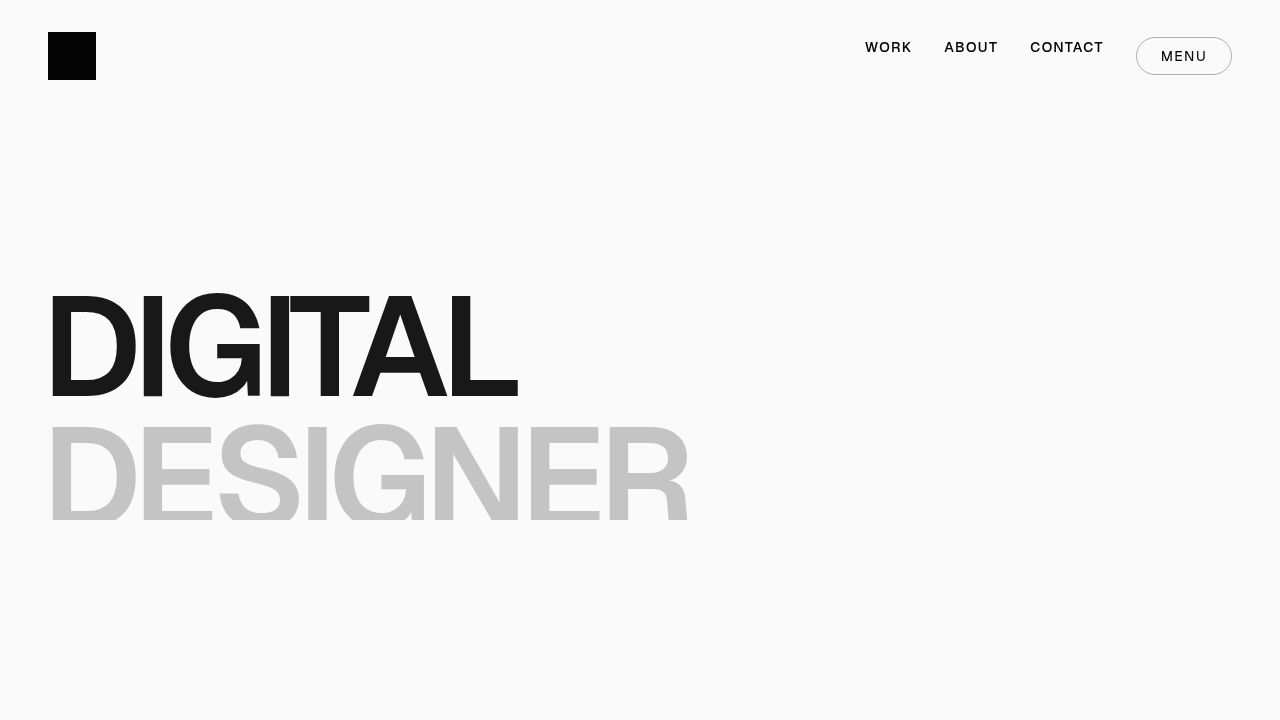
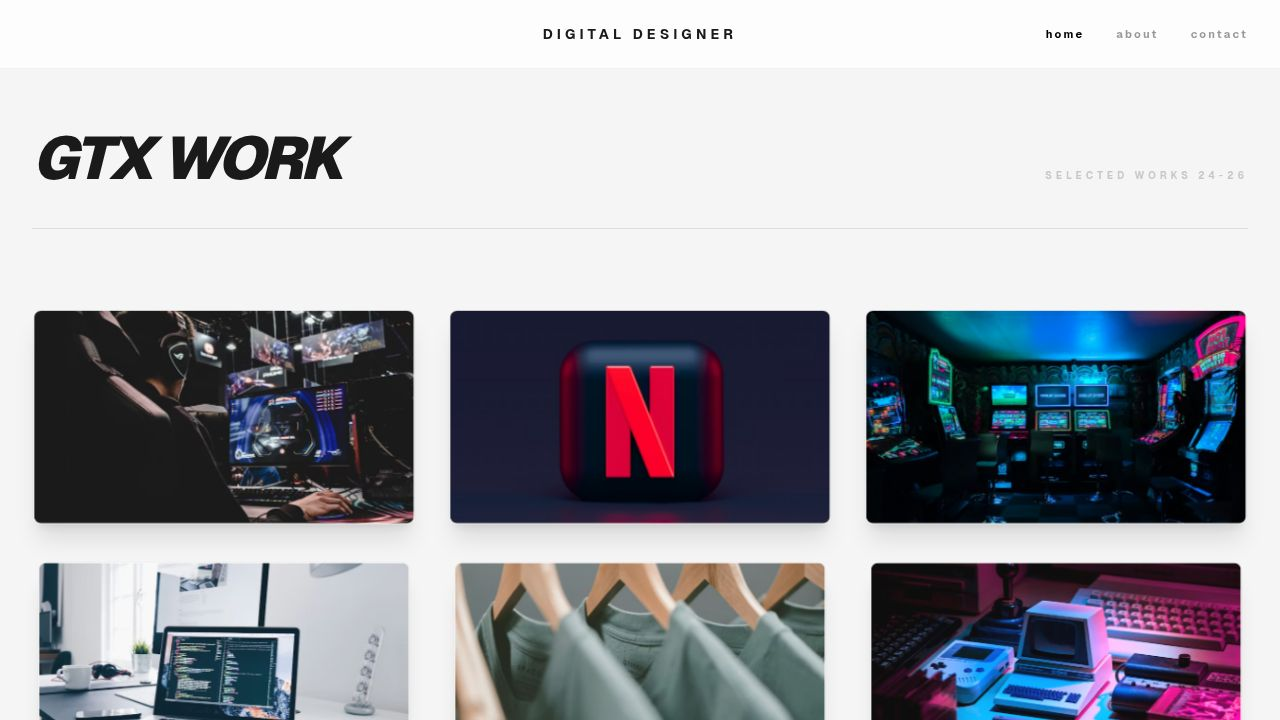
Implement a professional GFX designer portfolio with interactive elements
Update the home page component to include a 3D scroll tilt animation for work thumbnails, refine the styling of the work cards, and adjust the overall theme to a minimalist white and grey palette.

Replit-Commit-Author: Agent
Replit-Commit-Session-Id: 21c5b9e6-020a-49cf-b33c-aacc7fb6b926
Replit-Commit-Checkpoint-Type: full_checkpoint
Replit-Commit-Event-Id: aa47174f-c9aa-4d61-9fa4-75a49f0a554e
Replit-Commit-Screenshot-Url: https://storage.googleapis.com/screenshot-production-us-central1/4950d631-45f7-48ce-ae64-5c5e4bd75007/21c5b9e6-020a-49cf-b33c-aacc7fb6b926/aeMYFYc
Replit-Helium-Checkpoint-Created: true

diff --git a/client/src/pages/home.tsx b/client/src/pages/home.tsx
@@ -1,14 +1,13 @@
-import { motion, useScroll, useTransform } from "framer-motion";
-import { useRef } from "react";
-import { Link } from "wouter";
+import { motion, useScroll, useTransform, AnimatePresence } from "framer-motion";
+import { useRef, useState } from "react";
 
 const WORK_ITEMS = [
   { id: 1, title: "Gaming Tournament", category: "Thumbnail", image: "https://images.unsplash.com/photo-1542751371-adc38448a05e?auto=format&fit=crop&q=80&w=800" },
   { id: 2, title: "Modern Vibe", category: "Branding", image: "https://images.unsplash.com/photo-1611162617474-5b21e879e113?auto=format&fit=crop&q=80&w=800" },
   { id: 3, title: "Epic Battle", category: "GFX", image: "https://images.unsplash.com/photo-1511512578047-dfb367046420?auto=format&fit=crop&q=80&w=800" },
-  { id: 4, title: "Tech Review", category: "Concept", image: "https://images.unsplash.com/photo-1498050108023-c5249f4df085?auto=format&fit=crop&q=80&w=800" },
-  { id: 5, title: "Street Style", category: "Social Media", image: "https://images.unsplash.com/photo-1523381210434-271e8be1f52b?auto=format&fit=crop&q=80&w=800" },
-  { id: 6, title: "Neon Nights", category: "Art", image: "https://images.unsplash.com/photo-1550745165-9bc0b252726f?auto=format&fit=crop&q=80&w=800" },
+  { id: 4, title: "Tech Review", category: "Thumbnail", image: "https://images.unsplash.com/photo-1498050108023-c5249f4df085?auto=format&fit=crop&q=80&w=800" },
+  { id: 5, title: "Street Style", category: "Thumbnail", image: "https://images.unsplash.com/photo-1523381210434-271e8be1f52b?auto=format&fit=crop&q=80&w=800" },
+  { id: 6, title: "Neon Nights", category: "Thumbnail", image: "https://images.unsplash.com/photo-1550745165-9bc0b252726f?auto=format&fit=crop&q=80&w=800" },
 ];
 
 function WorkCard({ item }: { item: typeof WORK_ITEMS[0] }) {
@@ -18,8 +17,6 @@ function WorkCard({ item }: { item: typeof WORK_ITEMS[0] }) {
     offset: ["start end", "end start"],
   });
 
-  // 3D Scroll Tilt animation
-  // As it scrolls into view (0) to out of view (1)
   const rotateX = useTransform(scrollYProgress, [0, 0.5, 1], [15, 0, -15]);
   const opacity = useTransform(scrollYProgress, [0, 0.2, 0.8, 1], [0.6, 1, 1, 0.6]);
   const scale = useTransform(scrollYProgress, [0, 0.5, 1], [0.95, 1, 0.95]);
@@ -27,13 +24,8 @@ function WorkCard({ item }: { item: typeof WORK_ITEMS[0] }) {
   return (
     <motion.div
       ref={cardRef}
-      style={{
-        perspective: "1200px",
-        rotateX,
-        opacity,
-        scale,
-      }}
-      className="group relative aspect-video overflow-hidden rounded-lg bg-muted shadow-2xl transition-all duration-500 ease-out border border-white/5"
+      style={{ perspective: "1200px", rotateX, opacity, scale }}
+      className="group relative aspect-video overflow-hidden rounded-lg bg-white shadow-xl transition-all duration-500 ease-out border border-black/5"
       data-testid={`card-work-${item.id}`}
     >
       <img
@@ -41,74 +33,131 @@ function WorkCard({ item }: { item: typeof WORK_ITEMS[0] }) {
         alt={item.title}
         className="h-full w-full object-cover transition-transform duration-700 group-hover:scale-105"
       />
-      <div className="absolute inset-0 bg-gradient-to-t from-black/80 via-black/20 to-transparent opacity-0 transition-opacity duration-300 group-hover:opacity-100 flex flex-col justify-end p-8">
-        <p className="text-xs font-semibold text-primary/90 uppercase tracking-[0.2em] mb-2">{item.category}</p>
-        <h3 className="text-3xl font-bold text-white tracking-tight">{item.title}</h3>
+      <div className="absolute inset-0 bg-black/40 opacity-0 transition-opacity duration-300 group-hover:opacity-100 flex flex-col justify-end p-6">
+        <p className="text-[10px] font-bold text-white uppercase tracking-[0.2em] mb-1">{item.category}</p>
+        <h3 className="text-xl font-bold text-white tracking-tight">{item.title}</h3>
       </div>
     </motion.div>
   );
 }
 
 export default function Home() {
+  const [activeTab, setActiveTab] = useState("home");
+
   return (
-    <div className="min-h-screen bg-[#0a0a0a] text-white font-inter selection:bg-white selection:text-black">
+    <div className="min-h-screen bg-[#F5F5F5] text-[#1A1A1A] font-inter selection:bg-black selection:text-white">
       {/* Navigation */}
-      <nav className="fixed top-0 left-0 right-0 z-50 flex items-center justify-between px-12 py-8">
-        <div className="w-1/3 text-xl font-bold tracking-tighter uppercase font-space-grotesk">
-          Design©
-        </div>
+      <nav className="fixed top-0 left-0 right-0 z-50 flex items-center justify-between px-8 py-6 bg-white/80 backdrop-blur-md border-b border-black/5">
         <div className="w-1/3"></div>
-        <div className="w-1/3 flex justify-end gap-10 text-[11px] font-bold uppercase tracking-[0.3em]">
-          <Link href="/"><a className="hover:opacity-50 transition-opacity" data-testid="link-home">Home</a></Link>
-          <Link href="/about"><a className="hover:opacity-50 transition-opacity" data-testid="link-about">About</a></Link>
-          <Link href="/contact"><a className="hover:opacity-50 transition-opacity" data-testid="link-contact">Contact</a></Link>
+        <div className="w-1/3 text-center text-sm font-bold uppercase tracking-[0.3em]">
+          Digital Designer
+        </div>
+        <div className="w-1/3 flex justify-end gap-8 text-[11px] font-bold uppercase tracking-[0.2em]">
+          {["home", "about", "contact"].map((tab) => (
+            <button
+              key={tab}
+              onClick={() => setActiveTab(tab)}
+              className={`transition-all ${activeTab === tab ? "text-black" : "text-black/40 hover:text-black/60"}`}
+              data-testid={`button-nav-${tab}`}
+            >
+              {tab}
+            </button>
+          ))}
         </div>
       </nav>
 
-      <main>
-        {/* Hero Section */}
-        <section className="h-screen flex flex-col items-center justify-center">
-          <motion.div
-            initial={{ opacity: 0, scale: 0.95 }}
-            animate={{ opacity: 1, scale: 1 }}
-            transition={{ duration: 1.2, ease: [0.16, 1, 0.3, 1] }}
-            className="text-center"
-          >
-            <h1 
-              className="text-[14vw] font-bold leading-[0.8] tracking-[-0.05em] uppercase font-space-grotesk"
-              data-testid="text-hero-heading"
+      <main className="pt-32 pb-40 px-8">
+        <AnimatePresence mode="wait">
+          {activeTab === "home" && (
+            <motion.div
+              key="home"
+              initial={{ opacity: 0, y: 20 }}
+              animate={{ opacity: 1, y: 0 }}
+              exit={{ opacity: 0, y: -20 }}
+              transition={{ duration: 0.5 }}
             >
-              Digital<br />Designer
-            </h1>
-            <p className="mt-8 text-sm text-white/40 uppercase tracking-[0.5em] font-medium">Portfolio Vol. 1</p>
-          </motion.div>
-        </section>
+              <section className="max-w-[1400px] mx-auto">
+                <div className="mb-20 flex items-baseline justify-between border-b border-black/10 pb-10">
+                  <h2 className="text-6xl font-black tracking-tighter uppercase italic" data-testid="text-section-title">GTX Work</h2>
+                  <span className="text-[10px] uppercase tracking-[0.4em] font-bold text-black/20">Selected Works 24-26</span>
+                </div>
+                <div className="grid grid-cols-1 md:grid-cols-2 lg:grid-cols-3 gap-8">
+                  {WORK_ITEMS.map((item) => (
+                    <WorkCard key={item.id} item={item} />
+                  ))}
+                </div>
+              </section>
+            </motion.div>
+          )}
 
-        {/* Work Section */}
-        <section className="px-12 pb-60">
-          <div className="mb-32 flex items-baseline justify-between border-b border-white/10 pb-12">
-            <h2 className="text-7xl font-bold tracking-tighter uppercase font-space-grotesk" data-testid="text-section-title">GTX Work</h2>
-            <div className="flex flex-col items-end gap-2">
-              <span className="text-[10px] uppercase tracking-[0.4em] font-bold text-white/30">Archives</span>
-              <span className="text-[10px] uppercase tracking-[0.4em] font-bold">2024—2026</span>
-            </div>
-          </div>
+          {activeTab === "about" && (
+            <motion.div
+              key="about"
+              initial={{ opacity: 0, x: 20 }}
+              animate={{ opacity: 1, x: 0 }}
+              exit={{ opacity: 0, x: -20 }}
+              className="max-w-3xl mx-auto py-20 text-center"
+            >
+              <h2 className="text-4xl font-bold mb-8 tracking-tight">Creative Vision</h2>
+              <p className="text-2xl leading-relaxed text-black/80 font-medium italic">
+                "I am a professional GFX designer with 3+ years of experience specializing in high-click-through-rate (CTR) YouTube thumbnails and gaming brand identities. My goal is to turn viewers into followers through visual storytelling."
+              </p>
+            </motion.div>
+          )}
 
-          <div className="grid grid-cols-1 md:grid-cols-2 gap-x-12 gap-y-24 max-w-[1400px] mx-auto">
-            {WORK_ITEMS.map((item) => (
-              <WorkCard key={item.id} item={item} />
-            ))}
-          </div>
-        </section>
+          {activeTab === "contact" && (
+            <motion.div
+              key="contact"
+              initial={{ opacity: 0, scale: 0.95 }}
+              animate={{ opacity: 1, scale: 1 }}
+              exit={{ opacity: 0, scale: 0.95 }}
+              className="max-w-xl mx-auto py-20 bg-white p-12 rounded-2xl shadow-2xl border border-black/5"
+            >
+              <h2 className="text-3xl font-bold mb-8 tracking-tight">Let's Collaborate</h2>
+              <form className="space-y-6" onSubmit={(e) => e.preventDefault()}>
+                <div>
+                  <label className="block text-[10px] uppercase tracking-widest font-bold mb-2">Name</label>
+                  <input 
+                    type="text" 
+                    className="w-full bg-grey-50 border-b border-black/10 py-3 focus:outline-none focus:border-black transition-colors"
+                    placeholder="Enter your name"
+                    data-testid="input-name"
+                  />
+                </div>
+                <div>
+                  <label className="block text-[10px] uppercase tracking-widest font-bold mb-2">Reason for Contact</label>
+                  <select 
+                    className="w-full bg-transparent border-b border-black/10 py-3 focus:outline-none focus:border-black transition-colors"
+                    data-testid="select-reason"
+                  >
+                    <option>YouTube Thumbnail Project</option>
+                    <option>Brand Identity</option>
+                    <option>Other Collaboration</option>
+                  </select>
+                </div>
+                <div>
+                  <label className="block text-[10px] uppercase tracking-widest font-bold mb-2">Message</label>
+                  <textarea 
+                    rows={4} 
+                    className="w-full bg-transparent border-b border-black/10 py-3 focus:outline-none focus:border-black transition-colors resize-none"
+                    placeholder="Tell me about your project"
+                    data-testid="input-message"
+                  ></textarea>
+                </div>
+                <button 
+                  className="w-full bg-black text-white py-4 rounded-full font-bold uppercase tracking-widest hover:bg-black/80 transition-all shadow-lg active:scale-95"
+                  data-testid="button-submit"
+                >
+                  Send Inquiry
+                </button>
+              </form>
+            </motion.div>
+          )}
+        </AnimatePresence>
       </main>
 
-      {/* Footer */}
-      <footer className="py-20 px-12 flex justify-between items-center border-t border-white/5 bg-black">
-        <p className="text-white/20 text-[10px] tracking-[0.3em] uppercase">© Digital Designer GFX</p>
-        <div className="flex gap-8 text-[10px] tracking-[0.3em] uppercase font-bold">
-          <a href="#" className="hover:text-white/50 transition-colors">Twitter</a>
-          <a href="#" className="hover:text-white/50 transition-colors">Instagram</a>
-        </div>
+      <footer className="py-12 border-t border-black/5 text-center bg-white">
+        <p className="text-black/30 text-[9px] tracking-[0.4em] uppercase font-bold">© Professional GFX Portfolio 2026</p>
       </footer>
     </div>
   );
